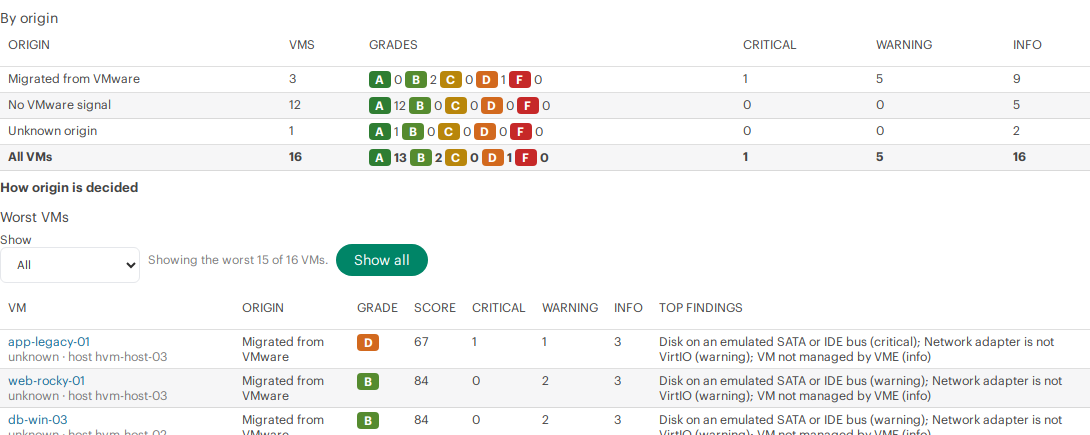
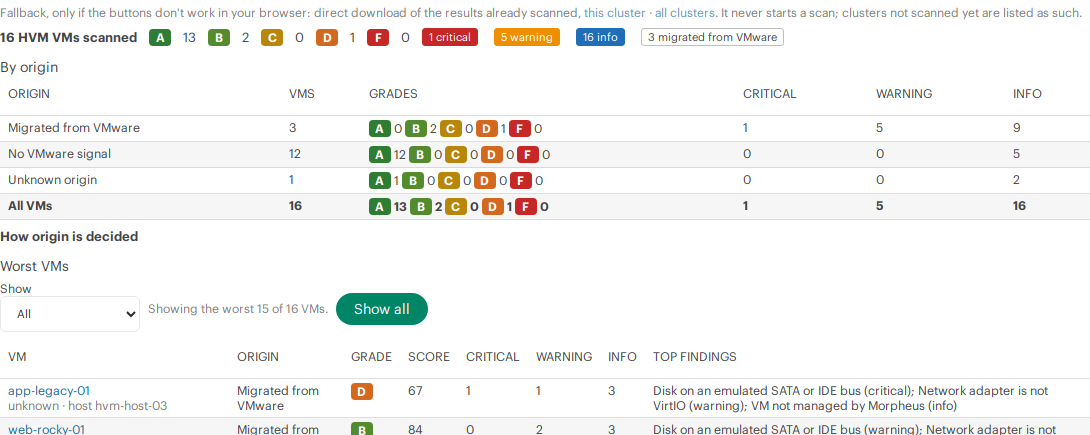
Use HPE Morpheus naming throughout

diff --git a/tools/draw-how-it-works.py b/tools/draw-how-it-works.py
@@ -124,11 +124,11 @@ col1 = [
     ("Cluster page › Migration Hygiene", [
         "The fleet view: grades, findings by severity, origin groups, worst VMs, findings per check",
         "Rescan · Download CSV (this cluster / all clusters)",
-        ("Works on every license, including VM Essentials", "note"),
+        ("Works on every edition, including Morpheus VM Essentials", "note"),
     ], BLUE),
     ("VM / instance › Migration Hygiene", [
         "Grade and findings, worst first",
-        "Evidence · If you leave it · If you fix it · How in VME · references",
+        "Evidence · If you leave it · If you fix it · How in Morpheus · references",
         "Refresh · Check guest agent (optional)",
     ], BLUE),
     ("Plugin script (migration-hygiene.js)", [
@@ -280,7 +280,7 @@ summary = [
     ("Install, scan, plan, uninstall. The plugin has no settings and no schedules: scans run only when someone opens a tab "
      "or runs the report. It never changes a VM, host or cluster. Every finding says what happens if you leave it and what "
      "fixing it costs (downtime, risk, whether it can be undone, what to do first), and is either a Recommendation (doable "
-     "in the VME UI or inside the guest OS) or a Consideration (needs host-level work; never recommended).", "plain"),
+     "in the Morpheus UI or inside the guest OS) or a Consideration (needs host-level work; never recommended).", "plain"),
 ]
 ih = card(24, IY, W - 48, "One and done, read-only", summary, TEAL, size=14, draw=False)
 rect(24, IY, W - 48, ih, TEAL[0], TEAL[1], rx=12, sw=2)
@@ -290,7 +290,7 @@ del out[saved]
 
 FOOT = IY + ih + 30
 t(24, FOOT, "Unofficial community project: not an HPE or Morpheus Data product, and not endorsed or supported by HPE. "
-  "HPE, Morpheus and VM Essentials are trademarks of Hewlett Packard Enterprise. See NOTICE.md.",
+  "HPE and Morpheus are trademarks of Hewlett Packard Enterprise. See NOTICE.md.",
   12, "normal", MUTED)
 H = FOOT + 22
 

diff --git a/tools/collect-fleet-sample.py b/tools/collect-fleet-sample.py
@@ -1,5 +1,5 @@
 #!/usr/bin/env python3
-"""Collect an anonymized, read-only sample of VM data from a Morpheus / VM Essentials appliance.
+"""Collect an anonymized, read-only sample of VM data from an HPE Morpheus appliance.
 
 Migration Hygiene uses this sample to check its rules against real fleets. The script:
 

diff --git a/tools/create-readonly-user.py b/tools/create-readonly-user.py
@@ -1,6 +1,6 @@
 #!/usr/bin/env python3
 """Create a least-privilege, read-only role and user for Migration Hygiene in
-HPE Morpheus / VM Essentials, then print an API token for that user.
+HPE Morpheus, then print an API token for that user.
 
 Usage:  python3 create-readonly-user.py <morpheus-ip-or-hostname>
 

diff --git a/README.md b/README.md
@@ -1,13 +1,13 @@
 # migration-hygiene-plugin
 
-**We've migrated to HVM. Now what?** Whatever tool you used to migrate, and whenever you did it, see what it left behind on your HPE VM Essentials virtual machines and what to tune next: disks on emulated SATA or IDE, e1000 network adapters, the Legacy chipset, a QEMU guest agent that doesn't answer, VMware MAC addresses, old snapshots, attached ISOs and more. Every VM gets a grade, and every finding says what happens **if you leave it** and what it costs **if you fix it**.
+**We've migrated to HVM. Now what?** Whatever tool you used to migrate, and whenever you did it, see what it left behind on your HPE Morpheus virtual machines on HVM (HPE Virtual Machine) hosts, and what to tune next: disks on emulated SATA or IDE, e1000 network adapters, the Legacy chipset, a QEMU guest agent that doesn't answer, VMware MAC addresses, old snapshots, attached ISOs and more. Every VM gets a grade, and every finding says what happens **if you leave it** and what it costs **if you fix it**.
 
 [![Latest release](https://img.shields.io/github/v/release/grahamfairbank/migration-hygiene-plugin?label=release&include_prereleases)](../../releases)
 [![Morpheus 9.0 | 9.1](https://img.shields.io/badge/Morpheus-9.0%20%7C%209.1-0d7b6a)](#requirements)
 [![License: MIT](https://img.shields.io/badge/license-MIT-blue)](LICENSE)
 [![PRs welcome](https://img.shields.io/badge/PRs-welcome-brightgreen)](CONTRIBUTING.md)
 
-> **Unofficial community project.** Not an HPE or Morpheus Data product. Not developed, endorsed or supported by Hewlett Packard Enterprise. Provided as is, without warranty. HPE, Morpheus and VM Essentials are trademarks of Hewlett Packard Enterprise; VMware is a trademark of Broadcom. See [NOTICE.md](NOTICE.md) for trademarks and for every source this project was built from.
+> **Unofficial community project.** Not an HPE or Morpheus Data product. Not developed, endorsed or supported by Hewlett Packard Enterprise. Provided as is, without warranty. HPE and Morpheus are trademarks of Hewlett Packard Enterprise; VMware is a trademark of Broadcom. See [NOTICE.md](NOTICE.md) for trademarks and for every source this project was built from.
 
 ![The Migration Hygiene tab on cluster-a: grade counts, findings by severity, a summary per origin group and the worst VMs first](docs/images/tab-cluster.png)
 
@@ -16,11 +16,11 @@
 ## Why you'll want it
 
 - **Migration is the start, not the finish.** A VM that boots on HVM can still run on emulated disks and network adapters, the Legacy chipset and no guest agent, and carry snapshots and ISOs from the move. Migration Hygiene finds all of it in minutes, across the whole cluster.
-- **Works whatever tool you used.** VME's own migration, an image upload, a third-party converter or a VM that was simply discovered on the hosts: the checks look at the VM as it is today, not at how it got there. Each VM is also put in an origin group (**Migrated from VMware**, **No VMware signal**, **Unknown origin**), with honest wording about what Morpheus data can and can't show.
+- **Works whatever tool you used.** Morpheus's own migration tool, an image upload, a third-party converter or a VM that was simply discovered on the hosts: the checks look at the VM as it is today, not at how it got there. Each VM is also put in an origin group (**Migrated from VMware**, **No VMware signal**, **Unknown origin**), with honest wording about what Morpheus data can and can't show.
 - **Every finding is a plan, not a scare.** "If you leave it" says what the problem costs you. "If you fix it" gives the downtime, the risk, whether it can be undone, and what must happen first, in order (for example: the VirtIO storage driver must be installed and boot-start on Windows before a disk bus switch). HPE documentation is cited first.
-- **Recommendations you can actually do.** A **Recommendation** is something you can do in the VME UI or inside the guest OS. Anything that would need host-level work is a **Consideration**: worth knowing, never recommended.
+- **Recommendations you can actually do.** A **Recommendation** is something you can do in the Morpheus UI or inside the guest OS. Anything that would need host-level work is a **Consideration**: worth knowing, never recommended.
 - **Read-only, and nothing leaves the appliance.** The checks read Morpheus data. The plugin changes nothing, makes no external calls and sends no telemetry. The one optional exception is a harmless no-op command that tests the guest agent, for users you give a separate permission.
-- **Works on every license.** The cluster tab and the CSV export are the fleet view, so it works on VM Essentials licenses that have no Reports page. Where your license includes Reports, there's a fleet report too.
+- **Works on every license.** The cluster tab and the CSV export are the fleet view, so it works on the Morpheus VM Essentials license, which has no Reports page. Where your license includes Reports, there's a fleet report too.
 - **One and done.** Install it, scan, plan your fixes, uninstall it. No schedules, no agents, nothing to configure.
 - **Doesn't slow Morpheus down.** Tabs never block a page load. Scans run in the background, only when someone opens a tab, and pace themselves.
 
@@ -54,7 +54,7 @@ Every HVM VM (and every instance on one) gets a **Migration Hygiene** tab with i
 - the **evidence** (what the plugin read, for example each disk's bus and controller);
 - **If you leave it:** what the problem costs you;
 - **If you fix it:** the downtime, the risk, whether it can be undone, and **Do first, in this order:** the prerequisites;
-- **How in VME:** where to do it (for example *Actions → Reconfigure → Advanced Options*);
+- **How in Morpheus:** where to do it (for example *Actions → Reconfigure → Advanced Options*);
 - whether it's a **Recommendation** or a **Consideration**, anything **not yet verified**, and references.
 
 ![The Migration Hygiene tab of app-legacy-01: grade F, a boot disk on IDE, an e1000 network adapter, a VMware MAC address and a discovered VM](docs/images/tab-vm.png)
@@ -81,7 +81,7 @@ The UI shows each check by its title, with a short ID in small type (for example
 | Check | Severity | Type | If you fix it: downtime, risk, can be undone | Unknown when |
 |---|---|---|---|---|
 | VMware source VM still running (`SOURCE-TWIN`) | critical | Recommendation | on the VMware side; low; yes | not evaluated yet (pending verification) |
-| VM not managed by VME (`DISCOVERED`) | info | Recommendation | none; low; yes | |
+| VM not managed by Morpheus (`DISCOVERED`) | info | Recommendation | none; low; yes | |
 | Old or many snapshots (`SNAPSHOTS`) | info; warning when older than 90 days | Recommendation | none; medium; **no** | snapshots can't be read |
 | ISO still attached (`ISO-ATTACHED`) | info | Recommendation | none; low; yes | |
 | QEMU guest agent not connected (`GA-STATUS`) | warning | Recommendation | none; low; yes | VM powered off or power state unknown; status not reported and not checked |
@@ -100,7 +100,7 @@ The UI shows each check by its title, with a short ID in small type (for example
 **A few things worth knowing:**
 
 - **Disk bus and chipset fixes list their prerequisites in order.** On Windows, the VirtIO storage driver must be installed **and** a boot-start driver before the switch, or Windows fails to boot. On Linux, VirtIO must be in the initramfs (or built into the kernel), and `/etc/fstab` and the boot loader must refer to disks by UUID or label. The VM tab spells out each step.
-- **Network adapter changes** give the guest a new adapter: record its IP settings first, and keep the VME console at hand.
+- **Network adapter changes** give the guest a new adapter: record its IP settings first, and keep the Morpheus console at hand.
 - **Network adapters Morpheus doesn't name** (it reports E1000E and some other models with no type) count as "not VirtIO, model unknown".
 - **The VMware MAC check is a Consideration.** Keeping the MAC is usually harmless; the real risk is the VMware source VM being powered on again on the same network.
 
@@ -109,7 +109,7 @@ The UI shows each check by its title, with a short ID in small type (for example
 A check is **unknown** when the data it needs isn't there, and the VM tab says why. The common cases:
 
 - **Morpheus 9.0.x** doesn't report the chipset (machine type) or the guest agent channel, so `CHIPSET` and `GA-CHANNEL` are unknown on 9.0.x.
-- **Discovered (unmanaged) VMs** have no VME configuration, so the same two checks are unknown for them.
+- **Discovered (unmanaged) VMs** have no Morpheus configuration, so the same two checks are unknown for them.
 - **Powered-off VMs:** the guest agent status is judged only while the VM runs.
 - **Time budget:** a part of a scan that didn't finish in time (snapshots, host or cluster name) shows as "unknown: time budget", and the rest of the result is still shown.
 
@@ -151,7 +151,7 @@ Through the plugin API, Morpheus 9.1.0.1 reports every VM's QEMU guest agent sta
 | **CSV export** (from the cluster tab) | One row per VM, for this cluster or every HVM cluster you can see. | Every license |
 | **Fleet report** (Operations → Reports → Migration Hygiene) | A summary, then one row per HVM VM; Morpheus can export the rows as CSV. Runs from the master tenant only, for users with the view permission. | Licenses that include Reports |
 
-The Reports page isn't part of the VM Essentials license, so on VM Essentials the cluster tab and the CSV are the fleet view.
+The Reports page isn't part of the Morpheus VM Essentials license, so on that edition the cluster tab and the CSV are the fleet view.
 
 ### CSV columns
 
@@ -223,7 +223,7 @@ The infographic is generated by [`tools/draw-how-it-works.py`](tools/draw-how-it
 
 ## Requirements
 
-- HPE Morpheus or HPE VM Essentials **9.0.x or 9.1.x** (Plugin API 1.4.1 or later). Tested on 9.1.0.1; an earlier version was also tried on 9.0.1.
+- HPE Morpheus **9.0.x or 9.1.x** (Plugin API 1.4.1 or later), any edition with HVM clusters: Morpheus VM Essentials, Morpheus Advanced or Morpheus Enterprise. Tested on 9.1.0.1; an earlier version was also tried on 9.0.1.
 - HVM clusters. Other cloud types are ignored.
 - No network access, credentials or settings: the plugin has no settings form.
 
@@ -231,7 +231,7 @@ The infographic is generated by [`tools/draw-how-it-works.py`](tools/draw-how-it
 
 Use the prebuilt jar from the [Releases](../../releases) page. There's no need to build anything.
 
-**One jar, `migration-hygiene-plugin-<version>.jar`, works on Morpheus / VM Essentials 9.0.x and 9.1.x.** It's compiled against the oldest supported Plugin API (1.4.1, Morpheus 9.0), and its whole test suite also runs against Plugin API 1.5.0 (Morpheus 9.1). Before each release, `tools/check-plugin-core.sh` checks HPE's published plugin sources and docs for any compatibility change.
+**One jar, `migration-hygiene-plugin-<version>.jar`, works on HPE Morpheus 9.0.x and 9.1.x.** It's compiled against the oldest supported Plugin API (1.4.1, Morpheus 9.0), and its whole test suite also runs against Plugin API 1.5.0 (Morpheus 9.1). Before each release, `tools/check-plugin-core.sh` checks HPE's published plugin sources and docs for any compatibility change.
 
 Each release includes `SHA256SUMS`. Check the download with `sha256sum -c SHA256SUMS`.
 

diff --git a/docs/INSTALL.md b/docs/INSTALL.md
@@ -2,7 +2,7 @@
 
 > Unofficial community plugin, not an HPE product and not supported by HPE. See [NOTICE.md](../NOTICE.md).
 
-This guide assumes you've never installed a Morpheus plugin before, and that you don't use the Morpheus API. Every step says where to click and what you should see. Allow about 15 minutes, plus the time the first scan takes.
+This guide is for HPE Morpheus 9.0.x and 9.1.x with HVM (HPE Virtual Machine) clusters. It assumes you've never installed a Morpheus plugin before, and that you don't use the Morpheus API. Every step says where to click and what you should see. Allow about 15 minutes, plus the time the first scan takes.
 
 The plugin is "one and done": install it, scan, plan your fixes, and uninstall it when you're finished. It's read-only and has no settings.
 
@@ -10,7 +10,7 @@ The plugin is "one and done": install it, scan, plan your fixes, and uninstall i
 
 | In the examples | Example value |
 |---|---|
-| Morpheus appliance | `vme-manager.example.com`, signed in as `admin` |
+| Morpheus appliance | `morpheus.example.com`, signed in as `admin` |
 | HVM cluster | `cluster-a` |
 | HVM hosts | `hvm-host-01`, `hvm-host-02`, `hvm-host-03` |
 | A VM with a lot to fix | `app-legacy-01` (boot disk on IDE, e1000 network adapter, discovered, VMware MAC address) |
@@ -23,7 +23,7 @@ The plugin is "one and done": install it, scan, plan your fixes, and uninstall i
 
 You need:
 
-- **Morpheus admin access.** HPE Morpheus or HPE VM Essentials **9.0.x or 9.1.x**, and a login that can open **Administration → Integrations → Plugins** and **Administration → Roles**.
+- **Morpheus admin access.** HPE Morpheus **9.0.x or 9.1.x** (VM Essentials, Advanced or Enterprise edition), and a login that can open **Administration → Integrations → Plugins** and **Administration → Roles**.
 - **At least one HVM cluster.** The plugin looks only at VMs on HVM clusters; other clouds are ignored.
 - **Nothing else.** No network access, no credentials, no API client, no agent on the VMs.
 
@@ -84,10 +84,10 @@ People who plan the post-migration work often need to see clusters and VMs and t
 2. In a terminal, in the folder where you saved it, run:
 
    ```bash
-   python3 create-readonly-user.py vme-manager.example.com
+   python3 create-readonly-user.py morpheus.example.com
    ```
 
-   Use your appliance's host name or IP address in place of `vme-manager.example.com`. Add `--guest-scan` at the end to also allow **Check guest agent** for this user, and `--port <n>` if the appliance doesn't use port 443.
+   Use your appliance's host name or IP address in place of `morpheus.example.com`. Add `--guest-scan` at the end to also allow **Check guest agent** for this user, and `--port <n>` if the appliance doesn't use port 443.
 
 3. Answer the prompts:
    - **Certificate:** if the appliance uses a self-signed certificate, the script shows its fingerprint and asks whether to trust it for this run. Compare it with the appliance's certificate if you can, then answer `y`.
@@ -127,7 +127,7 @@ Results are kept for 10 minutes. Click **Rescan** to scan again after you've fix
 
 1. In **Worst VMs**, click a VM's name (`app-legacy-01` in the examples). Or go to **Infrastructure → Compute → Virtual Machines → (VM)**, or to the VM's instance under **Provisioning → Instances**.
 2. Open its **Migration Hygiene** tab (again, it may be in the overflow menu).
-3. You see the VM's grade and its findings, worst first. Click a finding to see the evidence, **If you leave it**, **If you fix it** (downtime, risk, whether it can be undone), **Do first, in this order**, **How in VME** and the references.
+3. You see the VM's grade and its findings, worst first. Click a finding to see the evidence, **If you leave it**, **If you fix it** (downtime, risk, whether it can be undone), **Do first, in this order**, **How in Morpheus** and the references.
 
    ![The Migration Hygiene tab of app-legacy-01, with the disk bus finding open](images/tab-vm.png)
 
@@ -159,7 +159,7 @@ What the result means:
 
 The **direct download** links under the buttons are a fallback for browsers where the buttons don't work. They only use results already in memory and never start a scan.
 
-**On a license with Reports**, you can also run the fleet report from the master tenant: **Operations → Reports → Migration Hygiene → Run**. Morpheus stores each run and can export its rows as CSV. On VM Essentials, which has no Reports page, use the cluster tab and the CSV.
+**On a license with Reports**, you can also run the fleet report from the master tenant: **Operations → Reports → Migration Hygiene → Run**. Morpheus stores each run and can export its rows as CSV. On Morpheus VM Essentials, which has no Reports page, use the cluster tab and the CSV.
 
 ## Upgrading
 

diff --git a/docs/images/SCREENSHOT-SPEC.md b/docs/images/SCREENSHOT-SPEC.md
@@ -10,7 +10,7 @@ The screenshots in this folder come from a real Morpheus appliance running the p
 |---|---|---|
 | `tab-cluster.png` | README (top), INSTALL step 5 | `cluster-a`'s Migration Hygiene tab after a finished scan, top of the tab: the Rescan and Download CSV buttons, grade counts, findings by severity and the start of **By origin**. |
 | `tab-cluster-origin.png` | README tour, INSTALL step 5 | The **By origin** table (three groups plus All) and **Worst VMs** with the **Show** filter set to **Migrated**, listing `app-legacy-01`, `web-rocky-01`, `web-rocky-02` and `db-win-01` with grade, score, origin and top findings. **How origin is decided** may be open. |
-| `tab-vm.png` | README tour, INSTALL step 6 | `app-legacy-01`'s Migration Hygiene tab: grade F, the findings list, and the **Disk on an emulated SATA or IDE bus** finding open, showing evidence, If you leave it, If you fix it (downtime, risk, can be undone), Do first, in this order, How in VME and references. |
+| `tab-vm.png` | README tour, INSTALL step 6 | `app-legacy-01`'s Migration Hygiene tab: grade F, the findings list, and the **Disk on an emulated SATA or IDE bus** finding open, showing evidence, If you leave it, If you fix it (downtime, risk, can be undone), Do first, in this order, How in Morpheus and references. |
 | `tab-vm-guest-agent.png` | README tour, INSTALL step 6 | The **Check guest agent** area on `db-win-01` (Windows): the button, its one-line explanation and "Answered 2 min ago". Crop to the area plus the grade line above it. |
 | `install-plugins.png` | INSTALL step 2 | **Administration → Integrations → Plugins** with **Migration Hygiene** 0.4.0 in the list, enabled. Other plugins in the list may stay if their names reveal nothing; otherwise crop or paint them out. |
 
@@ -20,7 +20,7 @@ Use these and nothing else, so a reader sees the same name for the same thing in
 
 | Thing | Example value |
 |---|---|
-| Morpheus appliance (manager) | `vme-manager.example.com`; signed in as `admin` |
+| Morpheus appliance (manager) | `morpheus.example.com`; signed in as `admin` |
 | HVM cluster | `cluster-a` |
 | HVM hosts | `hvm-host-01`, `hvm-host-02`, `hvm-host-03` |
 | The manager's own VM, if it appears | `manager-vm` |
@@ -38,7 +38,7 @@ The VMs, and what each one shows:
 | `web-rocky-01` | Rocky Linux | Migrated from VMware | Migrated, disks on SATA, VMware MAC `00:0c:29:00:00:03`. |
 | `web-rocky-02` | Rocky Linux | Migrated from VMware | Migrated, disks on SATA, VMware MAC `00:0c:29:00:00:04`. |
 | `svc-ubuntu-01`, `svc-ubuntu-02`, `svc-ubuntu-03` | Ubuntu | No VMware signal | Clean (grade A); KVM MACs `52:54:00:00:00:0x`. |
-| `manager-vm` | Linux | No VMware signal | The VME manager's own VM, if it runs on the cluster. |
+| `manager-vm` | Linux | No VMware signal | The Morpheus manager's own VM, if it runs on the cluster. |
 
 ## What to replace
 

diff --git a/CONTRIBUTING.md b/CONTRIBUTING.md
@@ -37,7 +37,7 @@ This builds and tests one jar into `dist/`. It's compiled against Plugin API 1.4
 
 - **Read-only.** The plugin reports and explains; it never changes a VM. Fixes are planned by people and done in Morpheus or inside the guest. Anything that would write to Morpheus or a VM needs a design discussion in an issue first.
 - **Every check describes its impact.** A check needs "If you leave it" and "If you fix it" (downtime, risk, whether it can be undone, prerequisites in order). The `Check` model refuses a definition without them.
-- **Recommendation or Consideration.** A Recommendation must be doable in the VME UI or inside the guest OS. Anything that needs host-level work (editing libvirt or host files, for example) is a Consideration and is never recommended.
+- **Recommendation or Consideration.** A Recommendation must be doable in the Morpheus UI or inside the guest OS. Anything that needs host-level work (editing libvirt or host files, for example) is a Consideration and is never recommended.
 - **Cite HPE documentation first** ([docs.morpheusdata.com](https://docs.morpheusdata.com/en/9.1/), or its source on GitHub, [HewlettPackard/morpheus-docs](https://github.com/HewlettPackard/morpheus-docs), which is easier to search), paraphrased, never copied. Say what isn't verified yet.
 - **Unknown is not a pass.** If the data isn't there, the check is unknown, with the reason.
 - **Tabs never block a page load.** No service calls in a tab's `show()` or `renderTemplate()`; `NonBlockingSpec` checks this.

diff --git a/SECURITY.md b/SECURITY.md
@@ -14,7 +14,7 @@ Please include:
 - what a user (or someone without an account) can do that they shouldn't, and which Morpheus permissions they need;
 - the steps to reproduce it.
 
-Use example values in anything you send: `app-legacy-01`, `hvm-host-01`, `cluster-a`, `192.0.2.21`, `vme-manager.example.com` and so on. Never send a real token, password, host name, MAC address or IP address. [CONTRIBUTING.md](CONTRIBUTING.md) explains how to replace them.
+Use example values in anything you send: `app-legacy-01`, `hvm-host-01`, `cluster-a`, `192.0.2.21`, `morpheus.example.com` and so on. Never send a real token, password, host name, MAC address or IP address. [CONTRIBUTING.md](CONTRIBUTING.md) explains how to replace them.
 
 This is a community project maintained in spare time. You should get a reply within a week. Confirmed issues are fixed in a new release, with a note in the [changelog](CHANGELOG.md); you'll be credited there unless you'd rather not be.
 
@@ -49,6 +49,6 @@ The [Security section of the README](README.md#security) has the details, includ
 
 ## Out of scope
 
-- Problems in Morpheus or VM Essentials themselves. Report those to HPE.
+- Problems in HPE Morpheus itself. Report those to HPE.
 - What a user with a permission can do by design: for example, a guest-scan user running the no-op guest agent check in a VM their tenant owns, or a view user seeing the MAC addresses and paths the checks report.
 - Findings that need an appliance administrator, or someone who can already install plugins.

diff --git a/CHANGELOG.md b/CHANGELOG.md
@@ -37,7 +37,7 @@ Tested on Morpheus 9.1.0.1. Security hardening after an independent review of th
 ## 0.2.0 (2026-11-02)
 
 - **Tabs never block page loads.** 0.1.x scanned while Morpheus built the page, so Infrastructure pages could hang. Tabs now render a small shell, and the plugin's script fills them from the plugin's routes.
-- **The cluster tab is the fleet view:** grade counts, findings by severity, the worst VMs and failures per check, with **Rescan** and CSV downloads. The VM Essentials license has no Reports page, so the fleet report can't be the main view there.
+- **The cluster tab is the fleet view:** grade counts, findings by severity, the worst VMs and failures per check, with **Rescan** and CSV downloads. The Morpheus VM Essentials license has no Reports page, so the fleet report can't be the main view there.
 - VM scans have a 15-second budget; parts not done in time show as "unknown: time budget". Cluster scans run in the background with progress, one per cluster at a time.
 - The agent baseline is computed in the background at most every 15 minutes. Results are cached for 10 minutes. All plugin threads stop when the plugin is disabled or removed.
 - The guest agent check never runs automatically when a tab opens.

diff --git a/.github/pull_request_template.md b/.github/pull_request_template.md
@@ -8,6 +8,6 @@
 - [ ] Tests added or updated for behavior changes.
 - [ ] CHANGELOG.md updated (and README / docs/INSTALL.md for user-visible changes).
 - [ ] No real data (names, IPs, MAC addresses, UUIDs, ids, tokens) in code, fixtures, screenshots or this description.
-- [ ] A new or changed check has "If you leave it" and "If you fix it", is a Recommendation only if it's doable in the VME UI or inside the guest OS, and cites HPE documentation first.
+- [ ] A new or changed check has "If you leave it" and "If you fix it", is a Recommendation only if it's doable in the Morpheus UI or inside the guest OS, and cites HPE documentation first.
 - [ ] Any new source is cited in NOTICE.md. No code copied from sources whose license doesn't allow it. The Morpheus plugin API is still compile-only.
 - [ ] Still read-only, and tabs still make no service calls while a page loads.

diff --git a/NOTICE.md b/NOTICE.md
@@ -38,7 +38,7 @@ Only this project's own compiled classes, four page templates, one script and on
 This project refers to the following names only to describe what it works with (nominative use). No affiliation or endorsement is implied.
 
 - **HPE** and **Hewlett Packard Enterprise**, and the HPE logo
-- **HPE Morpheus**, **Morpheus**, **HPE Morpheus VM Essentials** and **HPE VM Essentials** (abbreviated "VME" in this project)
+- **HPE Morpheus**, **Morpheus**, **HPE Morpheus VM Essentials**, **HPE Morpheus Advanced**, **HPE Morpheus Enterprise** and **HPE Virtual Machine** (HVM)
 
 These are trademarks or registered trademarks of Hewlett Packard Enterprise Company, or of Morpheus Data, LLC (an HPE company), in the United States and other countries.
 
